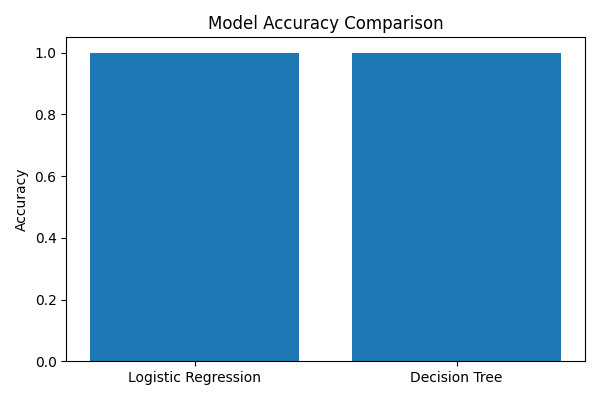
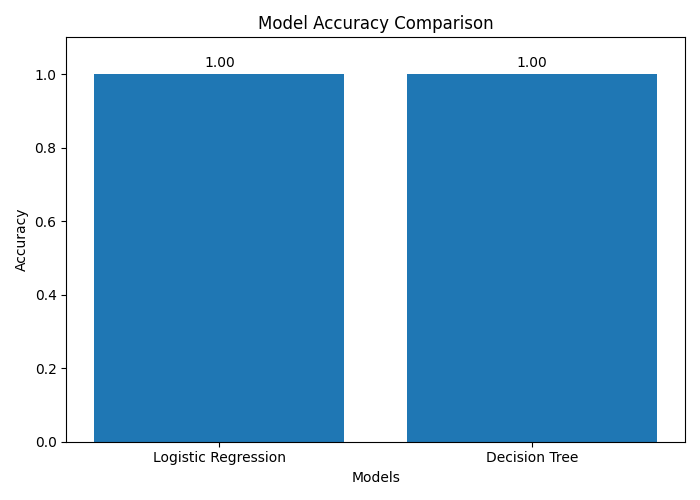
update

Changed region(s): [[0.0, 0.03, 0.99, 0.99]]

diff --git a/AIML TASK-5/model_comparison.py b/AIML TASK-5/model_comparison.py
@@ -2,6 +2,7 @@ import pandas as pd
 import matplotlib.pyplot as plt
 
 from sklearn.model_selection import train_test_split
+from sklearn.preprocessing import StandardScaler
 from sklearn.linear_model import LogisticRegression
 from sklearn.tree import DecisionTreeClassifier
 from sklearn.metrics import (
@@ -10,78 +11,134 @@ from sklearn.metrics import (
     recall_score,
     f1_score,
     confusion_matrix,
-    ConfusionMatrixDisplay
+    ConfusionMatrixDisplay,
+    classification_report
 )
 
-# ==========================
+# =====================================================
 # Load Dataset
-# ==========================
+# =====================================================
+
 df = pd.read_csv("student.csv")
 
+print("=" * 60)
 print("First 5 Records")
+print("=" * 60)
 print(df.head())
 
-# ==========================
+# =====================================================
 # Create Target Column
-# ==========================
-df["Pass"] = df["Final Score"].apply(lambda x: 1 if x >= 50 else 0)
+# =====================================================
 
-print("\nPass/Fail Count")
+df["Pass"] = (
+    (df["Attendance"] >= 75) &
+    (df["Final Score"] >= 60)
+).astype(int)
+
+print("\nPass / Fail Count")
 print(df["Pass"].value_counts())
 
-# ==========================
+# =====================================================
 # Features & Target
-# ==========================
-X = df[["Attendance", "Assignment Score", "Midterm Score", "Final Score"]]
+# =====================================================
+
+X = df[
+    [
+        "Attendance",
+        "Assignment Score",
+        "Midterm Score"
+    ]
+]
+
 y = df["Pass"]
 
-# ==========================
-# Train/Test Split
-# ==========================
+# =====================================================
+# Train Test Split
+# =====================================================
+
 X_train, X_test, y_train, y_test = train_test_split(
     X,
     y,
-    test_size=0.2,
+    test_size=0.20,
+    random_state=42,
+    stratify=y
+)
+
+print("\nTraining Data :", len(X_train))
+print("Testing Data  :", len(X_test))
+
+# =====================================================
+# Feature Scaling
+# =====================================================
+
+scaler = StandardScaler()
+
+X_train_scaled = scaler.fit_transform(X_train)
+X_test_scaled = scaler.transform(X_test)
+
+# =====================================================
+# Logistic Regression
+# =====================================================
+
+lr = LogisticRegression(max_iter=1000)
+
+lr.fit(X_train_scaled, y_train)
+
+lr_pred = lr.predict(X_test_scaled)
+
+# =====================================================
+# Decision Tree
+# =====================================================
+
+dt = DecisionTreeClassifier(
+    max_depth=4,
+    min_samples_split=4,
+    min_samples_leaf=2,
     random_state=42
 )
 
-print("\nTraining Data:", len(X_train))
-print("Testing Data :", len(X_test))
-
-# ==========================
-# Logistic Regression
-# ==========================
-lr = LogisticRegression()
-lr.fit(X_train, y_train)
-lr_pred = lr.predict(X_test)
-
-# ==========================
-# Decision Tree
-# ==========================
-dt = DecisionTreeClassifier(random_state=42)
 dt.fit(X_train, y_train)
+
 dt_pred = dt.predict(X_test)
 
-# ==========================
-# Evaluation
-# ==========================
-print("\n========== LOGISTIC REGRESSION ==========")
-print("Accuracy :", accuracy_score(y_test, lr_pred))
-print("Precision:", precision_score(y_test, lr_pred, zero_division=0))
-print("Recall   :", recall_score(y_test, lr_pred, zero_division=0))
-print("F1 Score :", f1_score(y_test, lr_pred, zero_division=0))
+# =====================================================
+# Logistic Regression Results
+# =====================================================
 
-print("\n========== DECISION TREE ==========")
-print("Accuracy :", accuracy_score(y_test, dt_pred))
-print("Precision:", precision_score(y_test, dt_pred, zero_division=0))
-print("Recall   :", recall_score(y_test, dt_pred, zero_division=0))
-print("F1 Score :", f1_score(y_test, dt_pred, zero_division=0))
+print("\n========== Logistic Regression ==========")
 
-# ==========================
+lr_accuracy = accuracy_score(y_test, lr_pred)
+lr_precision = precision_score(y_test, lr_pred, zero_division=0)
+lr_recall = recall_score(y_test, lr_pred, zero_division=0)
+lr_f1 = f1_score(y_test, lr_pred, zero_division=0)
+
+print("Accuracy :", lr_accuracy)
+print("Precision:", lr_precision)
+print("Recall   :", lr_recall)
+print("F1 Score :", lr_f1)
+
+# =====================================================
+# Decision Tree Results
+# =====================================================
+
+print("\n========== Decision Tree ==========")
+
+dt_accuracy = accuracy_score(y_test, dt_pred)
+dt_precision = precision_score(y_test, dt_pred, zero_division=0)
+dt_recall = recall_score(y_test, dt_pred, zero_division=0)
+dt_f1 = f1_score(y_test, dt_pred, zero_division=0)
+
+print("Accuracy :", dt_accuracy)
+print("Precision:", dt_precision)
+print("Recall   :", dt_recall)
+print("F1 Score :", dt_f1)
+
+# =====================================================
 # Confusion Matrices
-# ==========================
-cm_lr = confusion_matrix(y_test, lr_pred)
-cm_dt = confusion_matrix(y_test, dt_pred)
+# =====================================================
+
+cm_lr = confusion_matrix(y_test, lr_pred, labels=[0,1])
+cm_dt = confusion_matrix(y_test, dt_pred, labels=[0,1])
 
 print("\nLogistic Regression Confusion Matrix")
 print(cm_lr)
@@ -89,61 +146,126 @@ print(cm_lr)
 print("\nDecision Tree Confusion Matrix")
 print(cm_dt)
 
-# ==========================
+# =====================================================
+# Classification Reports
+# =====================================================
+
+print("\nClassification Report - Logistic Regression")
+print(classification_report(y_test, lr_pred))
+
+print("\nClassification Report - Decision Tree")
+print(classification_report(y_test, dt_pred))
+
+# =====================================================
 # Comparison Table
-# ==========================
+# =====================================================
+
 comparison = pd.DataFrame({
-    "Model": ["Logistic Regression", "Decision Tree"],
-    "Accuracy": [
-        accuracy_score(y_test, lr_pred),
-        accuracy_score(y_test, dt_pred)
+
+    "Model":[
+        "Logistic Regression",
+        "Decision Tree"
     ],
-    "Precision": [
-        precision_score(y_test, lr_pred, zero_division=0),
-        precision_score(y_test, dt_pred, zero_division=0)
+
+    "Accuracy":[
+        lr_accuracy,
+        dt_accuracy
     ],
-    "Recall": [
-        recall_score(y_test, lr_pred, zero_division=0),
-        recall_score(y_test, dt_pred, zero_division=0)
+
+    "Precision":[
+        lr_precision,
+        dt_precision
     ],
-    "F1 Score": [
-        f1_score(y_test, lr_pred, zero_division=0),
-        f1_score(y_test, dt_pred, zero_division=0)
+
+    "Recall":[
+        lr_recall,
+        dt_recall
+    ],
+
+    "F1 Score":[
+        lr_f1,
+        dt_f1
     ]
+
 })
 
-print("\nModel Comparison")
+print("\n==============================")
+print("Model Comparison")
+print("==============================")
 print(comparison)
 
-comparison.to_csv("comparison_results.csv", index=False)
+comparison.to_csv(
+    "comparison_results.csv",
+    index=False
+)
 
-# ==========================
-# Accuracy Comparison Chart
-# ==========================
-plt.figure(figsize=(6,4))
-plt.bar(comparison["Model"], comparison["Accuracy"])
+# =====================================================
+# Accuracy Chart
+# =====================================================
+
+plt.figure(figsize=(7,5))
+
+bars = plt.bar(
+    comparison["Model"],
+    comparison["Accuracy"]
+)
+
+plt.ylim(0,1.1)
+
 plt.title("Model Accuracy Comparison")
+plt.xlabel("Models")
 plt.ylabel("Accuracy")
+
+for bar in bars:
+    height = bar.get_height()
+    plt.text(
+        bar.get_x()+bar.get_width()/2,
+        height+0.02,
+        f"{height:.2f}",
+        ha="center"
+    )
+
 plt.tight_layout()
+
 plt.savefig("comparison_chart.png")
+
 plt.close()
 
-# ==========================
-# Confusion Matrix Charts
-# ==========================
-disp = ConfusionMatrixDisplay(confusion_matrix=cm_lr)
+# =====================================================
+# Logistic Confusion Matrix
+# =====================================================
+
+disp = ConfusionMatrixDisplay(
+    confusion_matrix=cm_lr,
+    display_labels=["Fail","Pass"]
+)
+
 disp.plot()
+
 plt.title("Logistic Regression Confusion Matrix")
+
 plt.savefig("logistic_confusion_matrix.png")
+
 plt.close()
 
-disp = ConfusionMatrixDisplay(confusion_matrix=cm_dt)
+# =====================================================
+# Decision Tree Confusion Matrix
+# =====================================================
+
+disp = ConfusionMatrixDisplay(
+    confusion_matrix=cm_dt,
+    display_labels=["Fail","Pass"]
+)
+
 disp.plot()
+
 plt.title("Decision Tree Confusion Matrix")
+
 plt.savefig("decision_tree_confusion_matrix.png")
+
 plt.close()
 
-print("\nAll files generated successfully!")
+print("\nFiles Generated Successfully!")
 print("- comparison_results.csv")
 print("- comparison_chart.png")
 print("- logistic_confusion_matrix.png")
